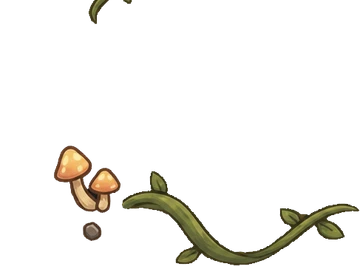
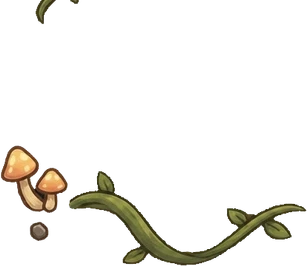
fix: 귀퉁이 덩굴을 액자에 걸리게 + 잘리던 번호 배지 + 팻말 낱말판
지적 넷을 순서대로 고쳤다. 원인이 셋으로 갈렸다.

## ① 포커스 링에 radius
`.input-base:focus`에 `border-radius: 6px`. border-image로 그린 나무틀은
radius를 따르지 않으므로 나무 모양은 그대로고, 바깥 초록 링(box-shadow)만
둥글어진다.

## ② 로비 폼의 귀퉁이 장식 — 값 하나가 옛 배율에 묶여 있었다
로비 폼만 `--orn-size: 126px`이었다. 그 값은 `zoom: 1.75` 시절에 고른 것이라
지금 비율로는 덩굴이 양피지 한가운데까지 뻗어, 액자에 걸린 장식이 아니라 판 위에
얹힌 그림처럼 보였다. 재보면 차이가 분명하다 —
**카드 안쪽 폭 대비 덩굴이 닿는 깊이가 로비 폼 30% vs 결과 판 10%.**

결과·대기실 판과 **같은 96px**로 통일하니 21%로 내려왔다. `.board-frame`은 이제
액자 두께(34px)만 따로 쓰고 장식 크기는 물려받는다.

⚠ `--orn-overhang`은 건드리지 않았다. `.lobby-form-wrap`의 여백이 16px인데 폼에는
`zoom: 1.6`이 걸려 있어, 10px을 조금만 키워도 16px을 넘겨 스크롤바가 생긴다.
**바깥으로 미는 대신 장식을 줄여** 해결했다.

## ③ 게임 방법 창의 귀퉁이 — CSS가 아니라 그림이 원인이었다
네 장이 한 시트에서 같은 크기(360×266)로 잘려 나온 탓에 잎 덩어리가 캔버스 안
제각기 다른 자리에 있었다:

    tr 위쪽 19px  ·  bl 왼쪽 53px  ·  br 오른쪽 10px 이 빈 여백

배경은 각 그림을 자기 모서리에 붙이므로, **그 빈 여백이 그대로 "안쪽으로 밀린
거리"가 된다.** 좌표는 한 픽셀도 틀리지 않았다.

넷 모두 잎에 바짝 자른 뒤 **자기가 붙을 모서리에 붙여** 공용 캔버스(307×266)로
다시 만들었다. 크기가 같으니 `background-size` 배율이 하나고, 잎이 캔버스 모서리에
닿아 있으니 액자에 걸린다. 예전에 "각자 경계상자로 자르면 위쪽 둘의 높이가 어긋난다"고
적어 둔 경고는 **캔버스 크기가 달라져서**였지, 바짝 자르는 것 자체가 문제가 아니었다.

`--howto-orn` 190 → 162px(모바일 121 → 103) — 잎 크기를 그대로 유지하는 환산값
(307 × 190/360). overhang은 10px(모바일 6px)로 조금 키우고, 모달 바깥 여백도
p-3 → p-4로 함께 늘렸다(덩굴이 화면 밖으로 잘리지 않게).

## ④ 번호 배지가 위쪽 11px 잘리던 것
배지가 `-top-4`로 칸 **밖에** 걸터앉는데 `.howto-scroll`이 `overflow-y: auto`라
그만큼을 잘라내고 있었다. 어제 포커스 링이 잘리던 것과 같은 갈래다 —
**overflow는 안쪽만이 아니라 바깥으로 그린 것도 잘라낸다.** `padding-top: 14px`.

## ⑤ "카드 뽑기 → 행동 하기"의 네모 프레임 복원
[…]

diff --git a/client/app/globals.css b/client/app/globals.css
@@ -2133,6 +2133,9 @@ body {
   outline: none;
 }
 .input-base:focus {
+  /* border-image로 그린 나무틀은 border-radius를 따르지 않는다 — 여기서 radius를 주는 것은
+     바깥 초록 링(box-shadow)만 둥글리기 위함이고, 나무틀 모양은 그대로 남는다. */
+  border-radius: 6px;
   box-shadow: 0 0 0 2px #4ade80;
 }
 /* 대화 입력창만은 예전 모습 그대로 둔다 — 채팅은 줄이 계속 쌓이는 자리라
@@ -2979,7 +2982,7 @@ body {
      ⚠ overhang은 반드시 감싸는 쪽의 padding보다 작아야 한다. 장식 레이어가 액자 밖으로
      걸치는 만큼 스크롤 영역이 넓어져, 넘치면 스크롤바가 생긴다(로비 폼에서 16px로
      뒀다가 390×844에서 실제로 겪었다 — .lobby-form-wrap의 padding 참고). */
-  --orn-size: 126px;
+  --orn-size: 96px;
   --orn-overhang: 10px;
   position: relative;
   isolation: isolate;
@@ -2987,14 +2990,16 @@ body {
   padding: calc(var(--board-edge) * 47 / 140 + 16px);
 }
 
-/* .board-frame은 로비 폼보다 장식을 작게 쓴다.
-   폼의 126px은 `zoom: 1.75`가 걸린 상태에서 고른 값이라 확대 없이 그대로 쓰면 과하다.
-   특히 결과 창의 "행동 사용 통계"처럼 **키가 낮은 카드**에서는 위아래 장식이 서로 닿아
-   가운데가 잎으로 막힌다(카드 높이 약 210px < 126×2). 96px이면 180px 남짓한 카드까지
-   위아래가 겹치지 않는다. */
+/* 로비 폼도 결과·대기실 판과 **같은 96px**을 쓴다(2026-09-09).
+   예전에는 폼만 126px이었는데, 그 값은 `zoom: 1.75`가 걸린 상태에서 고른 것이라 지금
+   비율로는 덩굴이 양피지 한가운데까지 뻗었다 — 액자에 걸린 장식이 아니라 판 위에 얹힌
+   그림처럼 보였다. 두 판을 나란히 재보면 그 차이가 분명하다(카드 안쪽 폭 대비 덩굴이
+   닿는 깊이: 126px일 때 30% vs 결과 판 10%). 96px이면 21%로 내려와 결을 맞춘다.
+   96px에는 또 하나의 이유가 있다 — 결과 창의 "행동 사용 통계"처럼 **키가 낮은 카드**에서
+   위아래 장식이 서로 닿지 않는 상한이 이 값이다(카드 높이 약 210px < 126×2).
+   .board-frame은 액자만 얇게(34px) 쓰고 장식 크기는 물려받는다. */
 .board-frame {
   --board-edge: 34px;
-  --orn-size: 96px;
 }
 /* 액자 */
 .lobby-form-board::before,
@@ -3201,11 +3206,15 @@ body {
 .howto-board {
   --howto-slice: 110;
   --howto-edge: 46px;
-  /* 귀퉁이 그림은 **모서리 기준 오프셋을 보존한 공유 캔버스**(487×360 원본 → 360×266)라,
-     그림 안에 빈 여백이 함께 들어 있다. 그래서 같은 폭이라도 잎 덩어리는 예전(내용을 바짝
-     자른 320px 그림)보다 작게 보인다 — 그 몫(360/299)에 요청받은 1.2배를 곱해 190px이다. */
-  --howto-orn: 190px;
-  --howto-overhang: 8px;
+  /* 귀퉁이 그림은 2026-09-09에 **자기 모서리에 바짝 붙여** 다시 잘랐다(307×266).
+     그전에는 넷이 한 시트에서 같은 크기로 잘려 나온 탓에 잎 덩어리가 캔버스 안 제각기
+     다른 자리에 있었고(tr 위 19px · bl 왼쪽 53px · br 오른쪽 10px이 빈 여백), 배경으로
+     깔면 그 여백이 그대로 "안쪽으로 밀린 거리"가 되어 덩굴이 액자를 놓치고 양피지 위에
+     떠 있었다. 지금은 네 장 모두 잎이 캔버스 모서리에 닿아 있어 액자에 걸린다.
+     ⚠ 그림을 다시 자르면 --howto-orn도 함께 환산할 것 — 잎 크기를 그대로 유지하려면
+     `새 캔버스 폭 × (예전 --howto-orn / 예전 캔버스 폭)`이다(307 × 190/360 = 162). */
+  --howto-orn: 162px;
+  --howto-overhang: 10px;
   position: relative;
   isolation: isolate;
   /* 나무 두께를 지나 양피지 안쪽까지 */
@@ -3273,17 +3282,33 @@ body {
   gap: 0.12em;
   text-shadow: 0 2px 2px rgba(60, 38, 20, 0.85);
 }
+/* 팻말 둘째 줄의 낱말 판 — 여백·모서리를 em으로 잡아 글자 크기(clamp)를 따라 늘어난다.
+   px로 잡으면 좁은 화면에서 판만 두꺼워져 세 줄이 홈(높이 62%)을 넘친다. */
+.howto-title-plate {
+  background: #fdf5e4;
+  color: #35281a;
+  border-radius: 0.42em;
+  padding: 0.06em 0.42em;
+  white-space: nowrap;
+  /* 밝은 판 위에서는 부모의 진한 글자 그림자가 때가 낀 것처럼 보인다 */
+  text-shadow: none;
+  box-shadow: 0 1px 2px rgba(50, 30, 15, 0.45);
+}
 /* 창 안에서 실제로 스크롤하는 부분 — 액자·팻말·귀퉁이는 제자리에 남는다 */
 .howto-scroll {
   flex: 1;
   min-height: 0;
   overflow-y: auto;
+  /* 각 칸의 번호 배지가 `-top-4`로 칸 **밖에** 걸터앉는데, overflow는 안쪽만이 아니라
+     바깥으로 그린 것도 잘라낸다 — 이 여백이 없으면 1·2·4번 배지의 위쪽 11px이 잘린다
+     (입력창 포커스 링이 잘리던 것과 같은 갈래의 문제다). */
+  padding-top: 14px;
 }
 @media (max-width: 767px) {
   .howto-board {
     --howto-edge: 26px;
-    --howto-orn: 121px;   /* 위와 같은 환산(84 × 360/299 × 1.2) */
-    --howto-overhang: 4px;
+    --howto-orn: 103px;   /* 307 × 121/360 — 새 캔버스로 환산 */
+    --howto-overhang: 6px;
   }
 }
 

diff --git a/client/components/ui/HowToPlayModal.tsx b/client/components/ui/HowToPlayModal.tsx
@@ -133,7 +133,8 @@ function MiniCard({ animal, num }: { animal: Animal; num: number }) {
 export function HowToPlayModal({ onClose }: { onClose: () => void }) {
   return (
     <div
-      className="fixed inset-0 bg-black/60 z-[100] flex items-center justify-center p-3"
+      // 귀퉁이 덩굴이 판 밖으로 --howto-overhang만큼 걸치므로 그 몫보다 넉넉히 띄운다
+      className="fixed inset-0 bg-black/60 z-[100] flex items-center justify-center p-4"
       onClick={onClose}
     >
       {/* 로비 폼·대기실·결과 창과 같은 나무 액자 문법. 스크롤은 액자가 아니라 **안쪽**에서
@@ -159,8 +160,12 @@ export function HowToPlayModal({ onClose }: { onClose: () => void }) {
             <span className="block font-black tracking-[0.18em] text-[clamp(0.62rem,1.35vw,0.95rem)] text-[#f0dcb4]">
               HOW TO PLAY
             </span>
-            <span className="block font-black leading-tight text-[clamp(0.95rem,2.3vw,1.6rem)] text-[#fdf3dd]">
-              카드 뽑기 <span className="text-[#e8c98d]">→</span> 행동 하기
+            {/* 두 낱말은 각자 네모난 판 위에 얹는다 — 에셋을 입히기 전 모습이고,
+                나뭇결 위에서 글자만으로는 "두 번"이라는 덩어리가 눈에 잡히지 않는다. */}
+            <span className="flex items-center justify-center gap-[0.35em] font-black leading-tight text-[clamp(0.95rem,2.3vw,1.6rem)]">
+              <span className="howto-title-plate">카드 뽑기</span>
+              <span className="text-[#e8c98d]">→</span>
+              <span className="howto-title-plate">행동 하기</span>
             </span>
             <span className="block font-bold leading-tight text-[clamp(0.6rem,1.3vw,0.92rem)] text-[#f0dcb4]">
               이 두 번이면 내 차례 끝! 🎉

diff --git a/client/app/page.tsx b/client/app/page.tsx
@@ -269,7 +269,7 @@ export default function LobbyPage() {
 
       {TABLE_IS_STANDIN && (
         <p
-          className="fixed bottom-2 left-2 text-[0.6rem] font-mono text-white/45 select-none pointer-events-none"
+          className="fixed bottom-2 left-2 text-[0.6rem] text-white/45 select-none pointer-events-none"
           title="배경은 임시 스탠드인입니다 — client/public/lobby/README.md 참조"
         >
           BG STANDIN

diff --git a/NEXT_SESSION.md b/NEXT_SESSION.md
@@ -253,13 +253,21 @@ upstream의 로비 기능을 이 구조 위에 이식했습니다. 자세한 경
 | --- | --- |
 | `BoardFrame` | `components/ui/BoardFrame.tsx` — 액자 그림 경로를 커스텀 속성으로 흘려보내는 얇은 래퍼. 대기실·결과 창 두 카드가 쓴다 |
 | CSS 분리 | 액자를 그리는 규칙을 `.lobby-form-board, .board-frame` 공유 선언으로 뺐습니다. **9분할 숫자(`--board-slice`·네 방향 여백)는 이제 한 곳뿐**입니다 |
-| `.board-frame` 기본값 | 폼보다 작게 씁니다(`--board-edge: 34px`, `--orn-size: 96px`) — 폼의 126px은 `zoom: 1.75`가 걸린 값이라 확대 없이 쓰면 과합니다 |
+| `.board-frame` 기본값 | 액자만 얇게 씁니다(`--board-edge: 34px`). `--orn-size`는 **폼과 같은 96px**로 통일했습니다(2026-09-10) — 폼의 옛 126px은 `zoom: 1.75` 시절 값이라 지금 비율로는 덩굴이 양피지 한가운데까지 뻗었습니다 |
 | `.board-panel` / `.board-inset` | 양피지 위에 얹히는 안쪽 칸. 회색·흰색을 그대로 두면 종이 조각을 붙여 놓은 것처럼 겉돕니다 |
 | 글자색 | 대기실·결과 창 액자 **안쪽만** `text-board-ink`/`text-board-muted`로 바꿨습니다 |
 
-> ⚠ **`--orn-size`를 다시 키우지 말 것.** 결과 창의 "행동 사용 통계"는 높이가 약 210px인데
-> 126px짜리 장식을 쓰면 위아래가 서로 닿아 카드 가운데가 잎으로 막힙니다(실제로 그렇게
-> 나왔다가 96px로 내렸습니다). 96px이 180px 남짓한 카드까지 견디는 값입니다.
+> ⚠ **`--orn-size`를 다시 키우지 말 것 — 이제 두 판이 같은 값을 씁니다(96px).**
+> 이유가 둘입니다. ① 결과 창의 "행동 사용 통계"는 높이가 약 210px인데 126px짜리 장식을
+> 쓰면 위아래가 서로 닿아 카드 가운데가 잎으로 막힙니다(실제로 그렇게 나왔습니다).
+> ② 로비 폼에서도 126px은 과했습니다 — **카드 안쪽 폭 대비 덩굴이 닿는 깊이가 30%**로,
+> 결과 판(10%)과 나란히 놓으면 액자에 걸린 장식이 아니라 판 위에 얹힌 그림처럼 보였습니다
+> (2026-09-10에 지적받아 96px로 통일, 21%로 내려왔습니다).
+>
+> ⚠ **`--orn-overhang`(장식이 액자 밖으로 걸치는 폭)으로 해결하려 들지 말 것.**
+> `.lobby-form-wrap`의 여백이 16px인데 폼에는 `zoom`이 걸려 있어(넓은 화면 1.6),
+> 10px을 조금만 키워도 16px을 넘겨 폼에 스크롤바가 생깁니다.
+> **밖으로 미는 대신 장식을 줄이는 쪽**이 같은 그림을 만듭니다.
 
 > ⚠ **로비 폼용 `GameRulesFields`는 일부러 건드리지 않았습니다.** 실측이 걸려 있어서고,
 > 대기실이 쓰는 것은 같은 파일의 `GameRulesInputs`·`RuleSummary`뿐입니다. 그 둘만 바꿨습니다.
@@ -511,15 +519,25 @@ DOM 순서가 그대로라 화면의 차례도 예전과 같습니다(닉네임 
 | 팻말 문구 | "카드 뽑기 → 행동 하기 / 이 두 번이면 내 차례 끝!"을 **팻말 안으로** 올렸습니다. 판 안 첫 줄에 두면 팻말 바로 아래라 머리말이 두 개인 꼴이었습니다 |
 | 팻말 글자 자리 | `.howto-title-text`가 판자의 **안쪽 홈**(폭 74% / 높이 62%)에만 앉습니다 — 넘으면 마구리와 잎에 글자가 묻힙니다 |
 | 닫기 버튼 | `PlankButton`("이해했어요! 🎮")으로 교체 |
-| 귀퉁이 정렬 | 네 조각을 **모서리 기준 오프셋을 보존한 공유 캔버스**(360×266)로 다시 잘랐습니다 |
-| 귀퉁이 크기 | 1.2배 — `--howto-orn` 132 → **190px**(모바일 84 → 121) |
+| 귀퉁이 정렬 | 네 조각을 **모서리 기준 오프셋을 보존한 공유 캔버스**(360×266)로 다시 잘랐습니다 → **2026-09-10에 다시 잘랐습니다**(아래 경고 참조) |
+| 귀퉁이 크기 | 1.2배 — `--howto-orn` 132 → 190px → **162px**(모바일 84 → 121 → 103) |
 
-> ⚠ **귀퉁이를 각자 내용 경계상자로 바짝 자르면 안 됩니다.** 조각마다 크기가 달라지고
-> 원본에서 서로 얼마나 떨어져 있었는지가 사라져 **위쪽 둘의 높이가 어긋납니다**(실제로
-> 그렇게 보였습니다). 지금은 넷이 같은 캔버스라 `background-size` 하나로 함께 움직입니다.
+> ⚠ **넷은 반드시 같은 크기의 캔버스여야 합니다.** 각자 내용 경계상자로 바짝 자르면
+> 조각마다 캔버스가 달라지고, `background-size: <폭> auto`가 조각마다 다른 배율로 그려
+> **위쪽 둘의 높이가 어긋납니다**(실제로 그렇게 보였습니다).
 >
-> 그 대신 그림 안에 빈 여백이 함께 들어 있어, 같은 폭이라도 잎 덩어리는 예전보다 작게
-> 보입니다 — `--howto-orn` 190px은 그 몫(360/299)에 1.2배를 곱한 값입니다.
+> ⚠ **그렇다고 빈 여백을 그대로 두어서도 안 됩니다(2026-09-10에 고쳤습니다).**
+> 360×266 시절에는 넷이 한 시트에서 같은 크기로 잘려 나온 탓에 잎 덩어리가 캔버스 안
+> 제각기 다른 자리에 있었습니다 — **tr 위쪽 19px · bl 왼쪽 53px · br 오른쪽 10px이
+> 빈 여백**이었습니다. 배경은 각 그림을 자기 모서리에 붙이므로, 그 여백이 그대로
+> "안쪽으로 밀린 거리"가 되어 덩굴이 액자를 놓치고 양피지 위에 떠 있었습니다.
+>
+> **정답은 둘을 함께 만족시키는 것입니다** — 잎에 바짝 자른 뒤, **자기가 붙을 모서리에
+> 붙여** 공용 캔버스(307×266)로 다시 채웁니다. 크기가 같으니 배율이 하나고, 잎이 캔버스
+> 모서리에 닿아 있으니 액자에 걸립니다.
+>
+> ⚠ 다시 자를 때는 `--howto-orn`도 함께 환산하세요 — 잎 크기를 그대로 유지하려면
+> `새 캔버스 폭 × (예전 값 / 예전 캔버스 폭)`입니다(307 × 190/360 = 162px).
 
 ---
 
